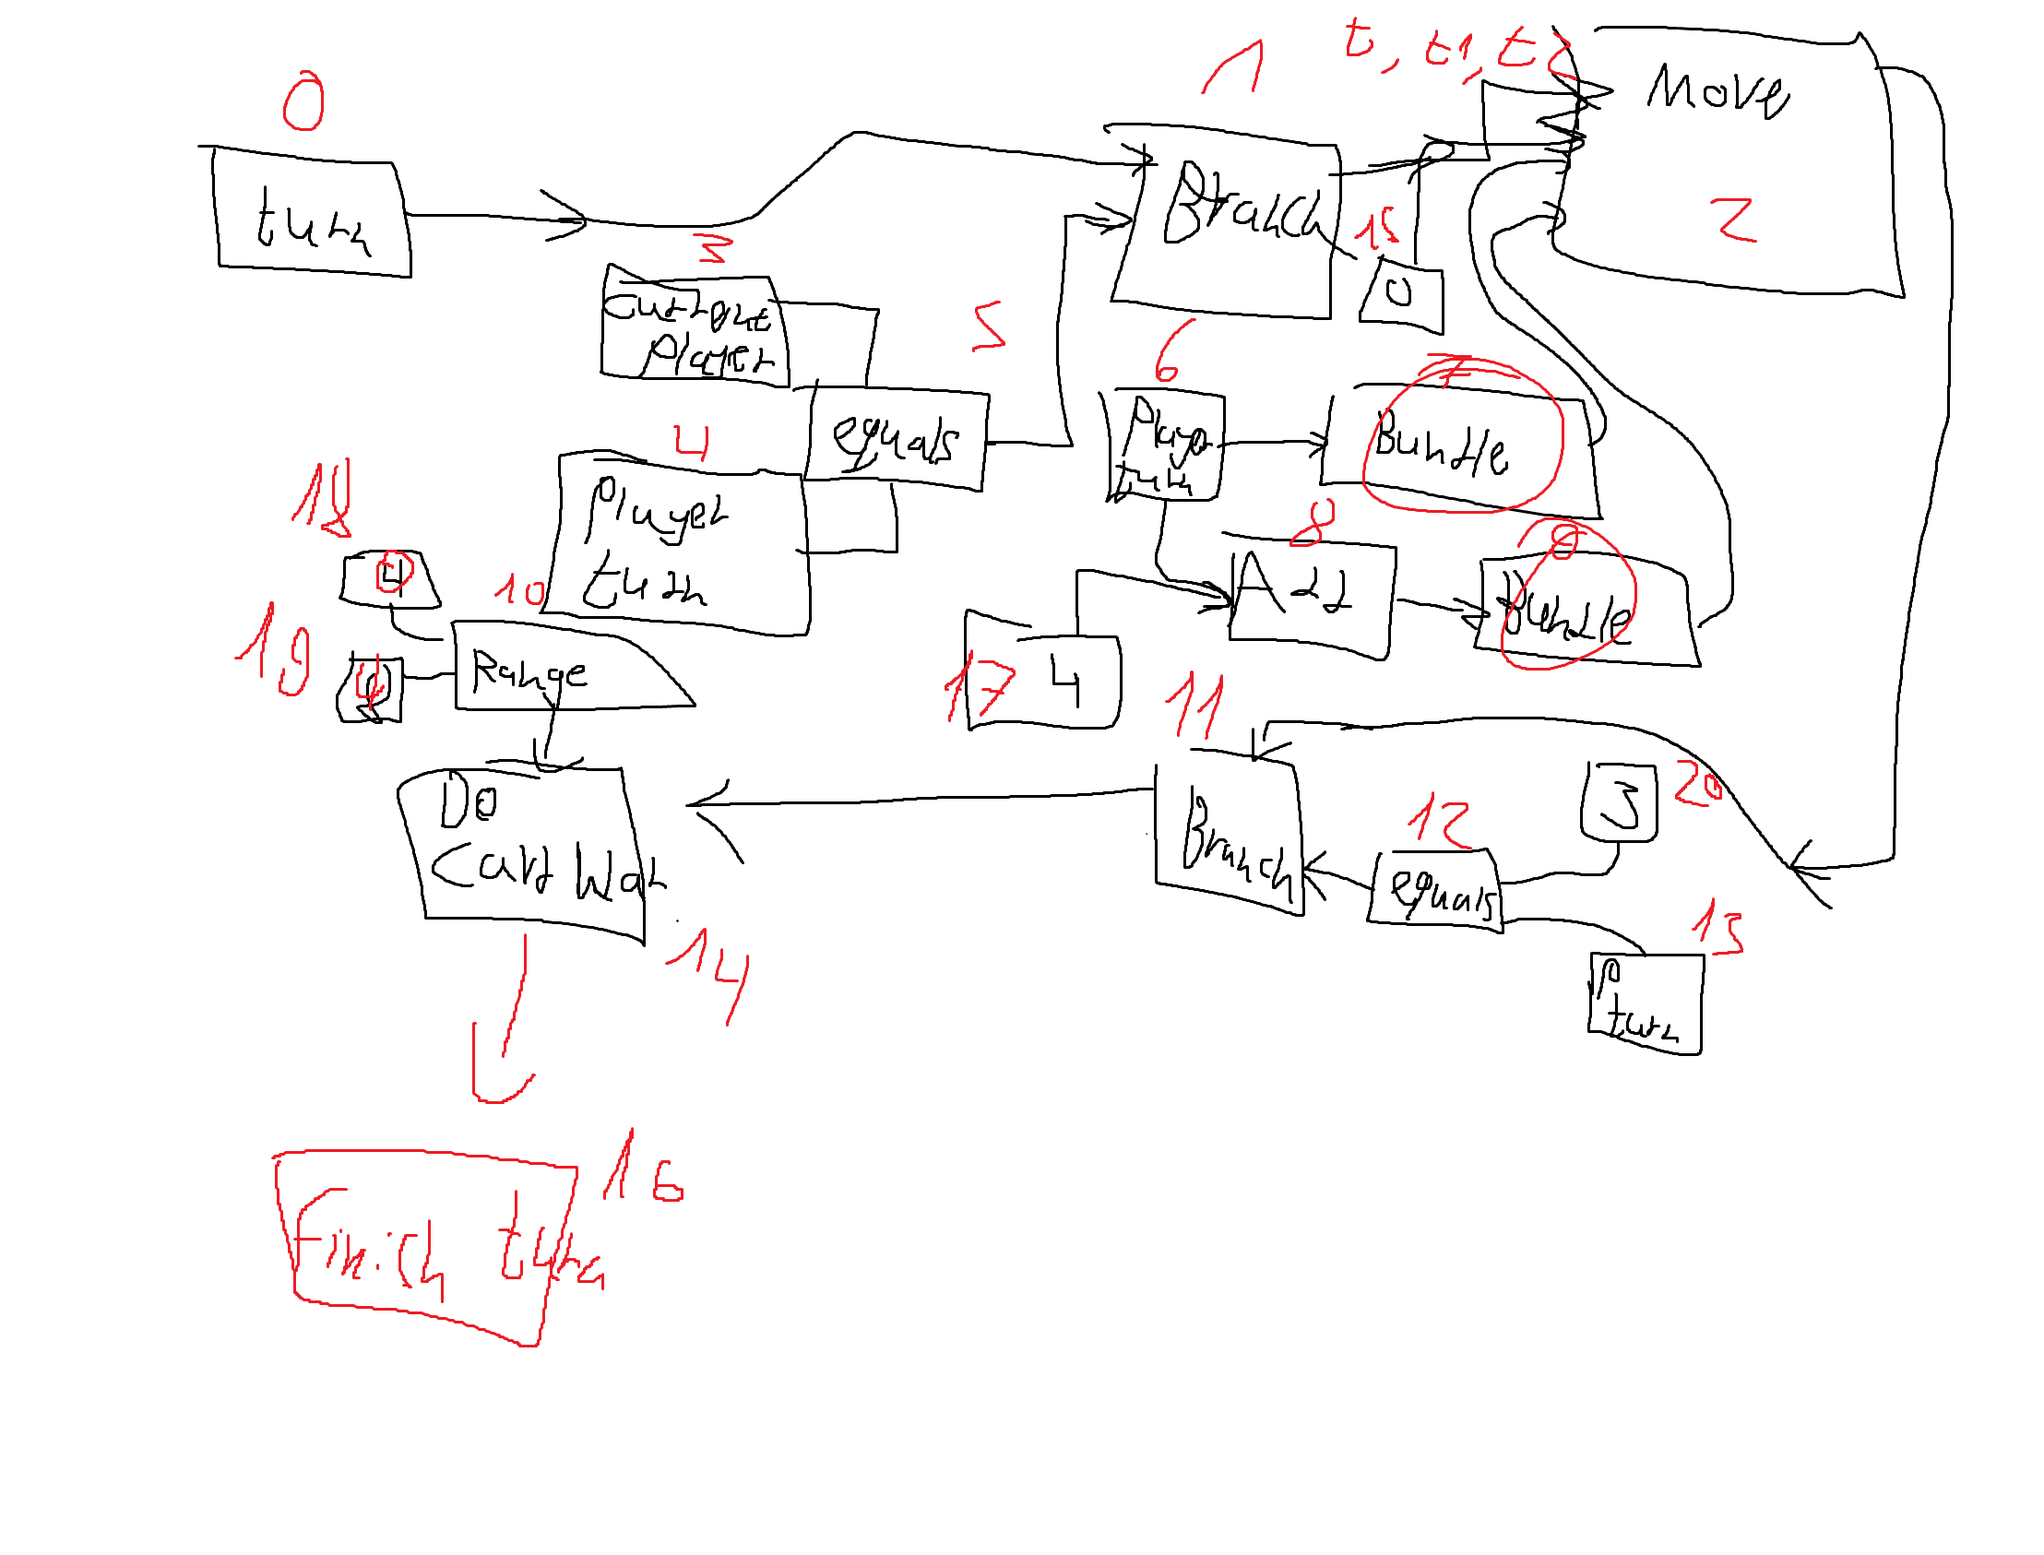
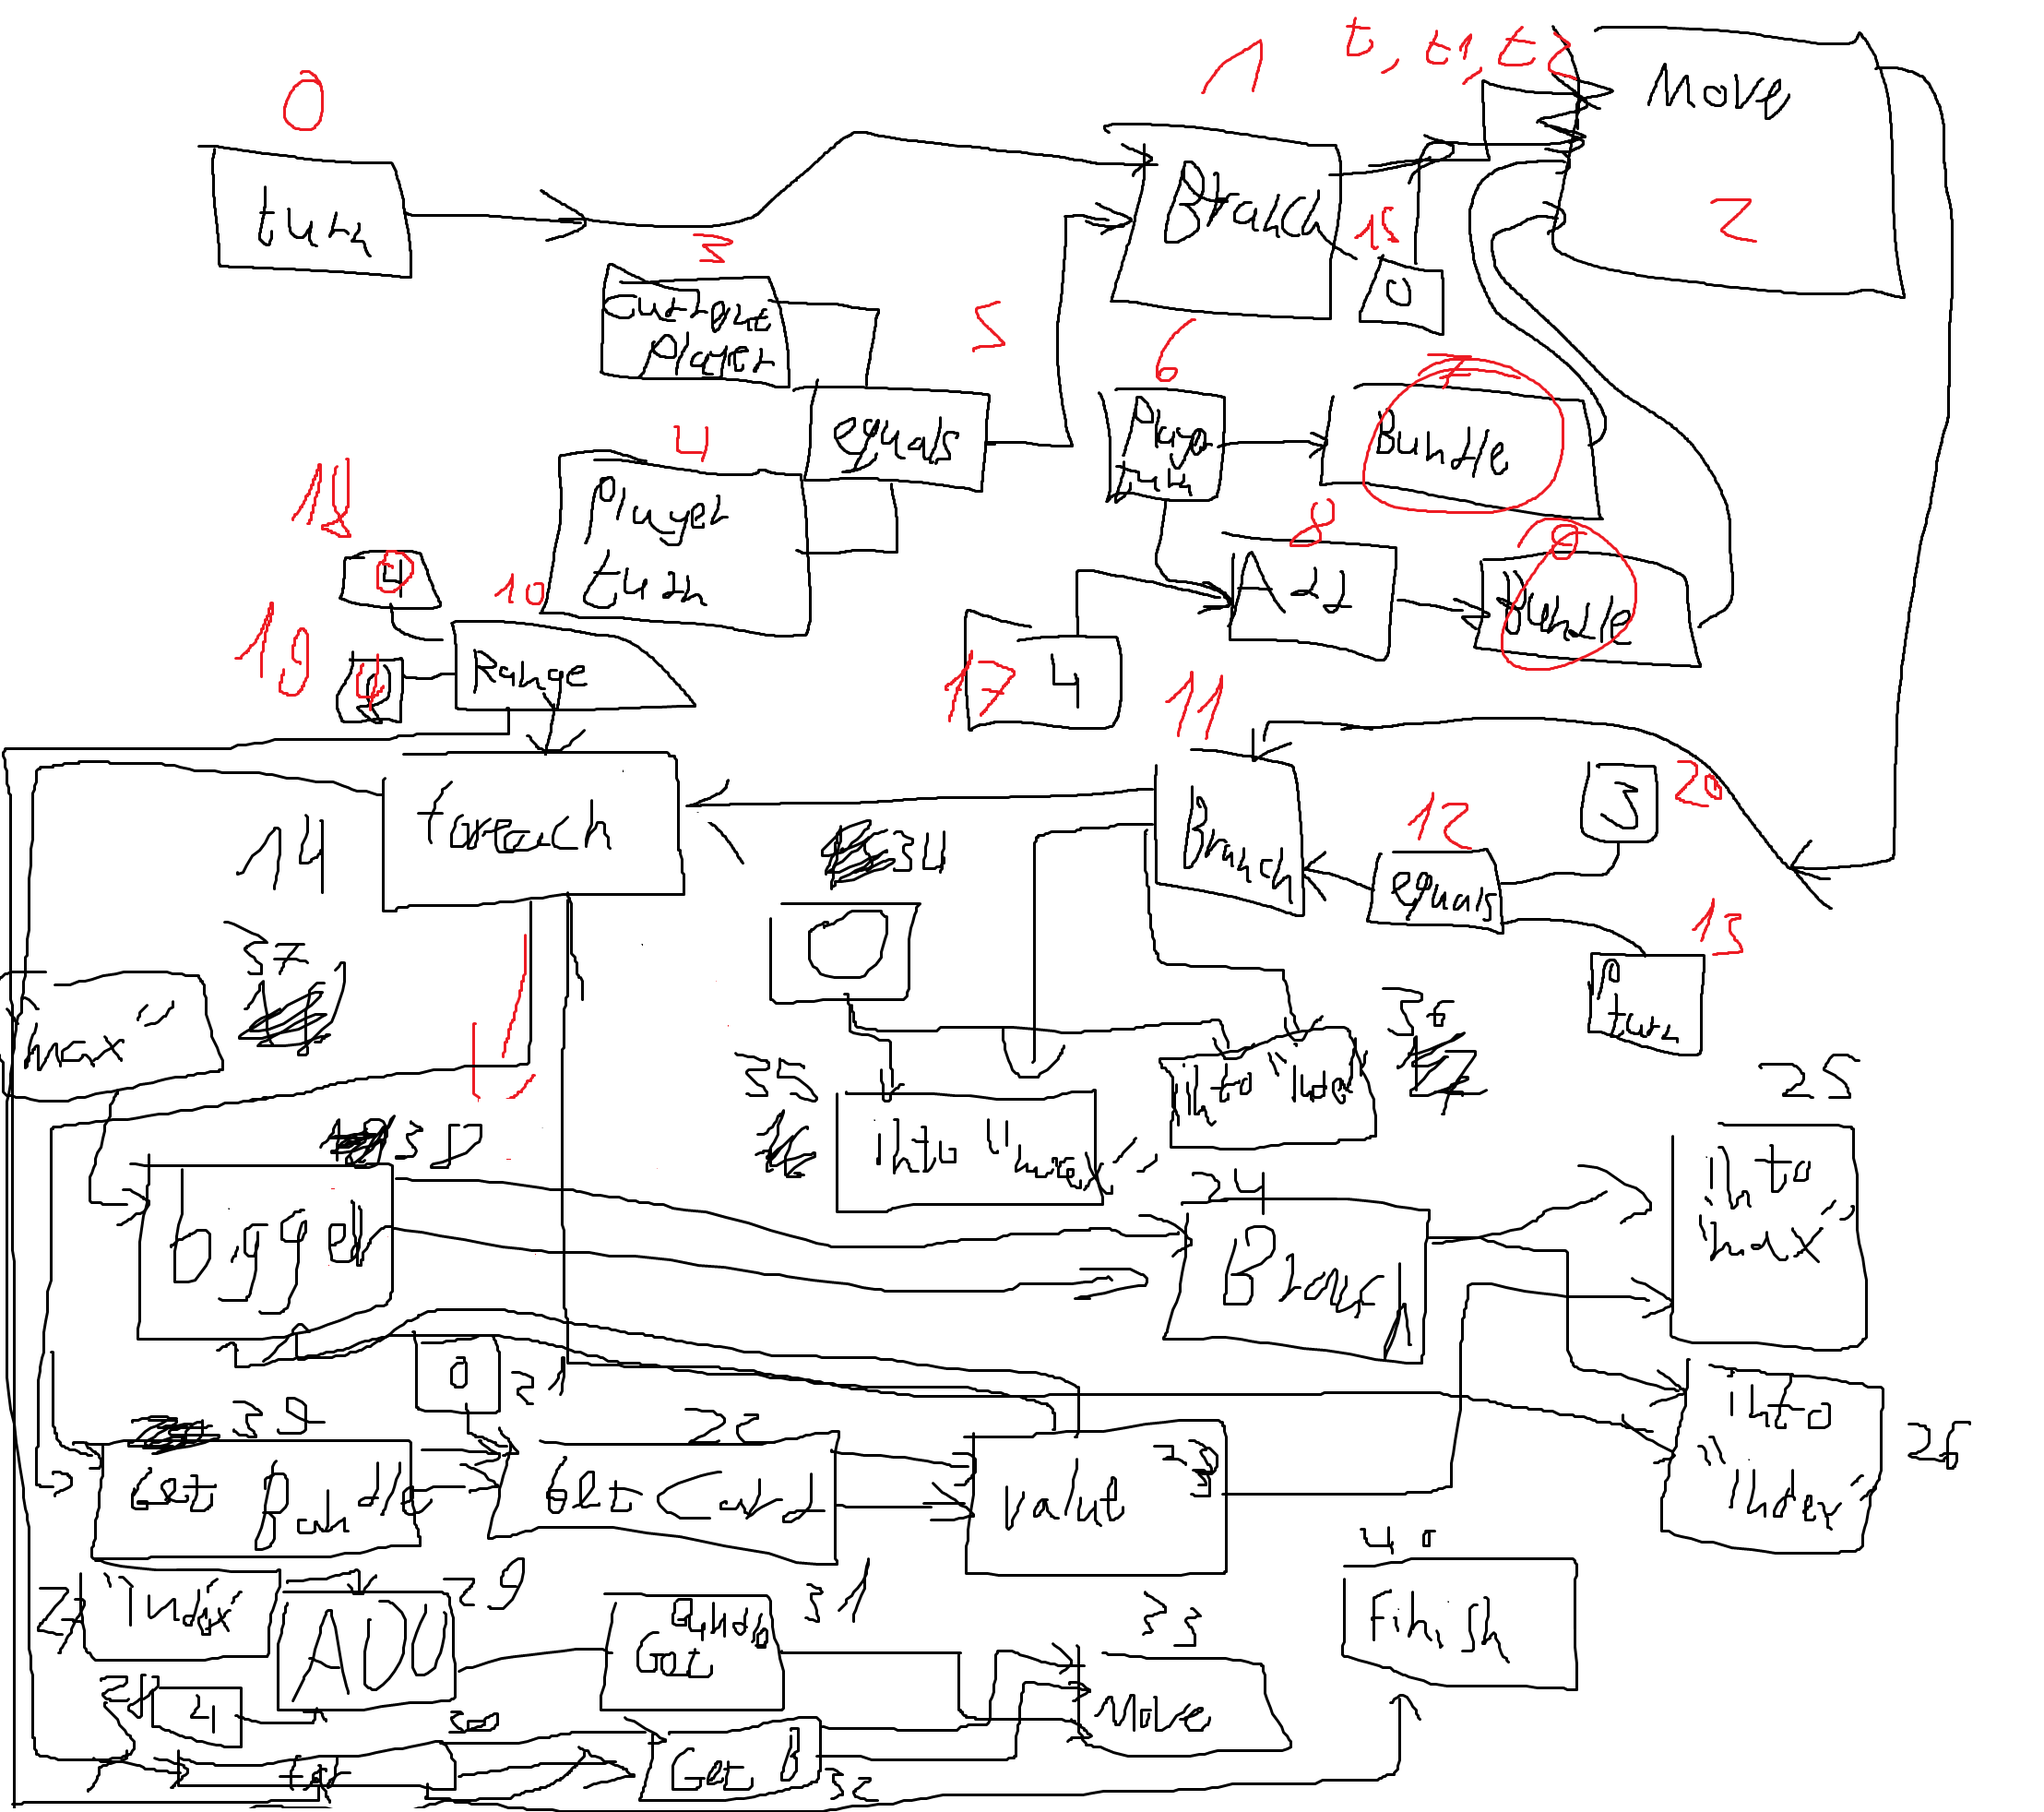
Add variables (unfinished) AND Change card game example
string for new example not done, image contains the rest of the instructions

diff --git a/Server/Game/CodeAnalyzer.py b/Server/Game/CodeAnalyzer.py
@@ -80,6 +80,8 @@ class CodeAnalyzer:
             7: (self.game.equals_command, 2),
             8: (self.game.get_bundle_command, 1),
             9: (self.game.range_command, 2),
+            10: (self.game.get_card_command, 2),
+            11: (self.game.get_value_commande, 1),
         }
 
         # C type
@@ -141,6 +143,8 @@ class Node:
         self.__type_index = None
         self.__repeatable = None
         self.__repeating = False
+        self.__awaiting_values = {}
+        self.__func_triggers = None
 
     @property
     def id(self) -> int:
@@ -297,41 +301,58 @@ class Node:
             self.activate_base_input()
             self.__active = True
             print("GOT OUT")
-        if not all(
-                any(
-                    input_node[0].has_value(self, int(input_node[1])) for input_node in input_slot
-                ) for input_slot in self.__inputs
-        ):
-            print("NO INPUTS: ")
-            if self.__type == "C": all(
-                all(
-                    print(input_node[0].has_value(self, int(input_node[1]))) for input_node in input_slot
-                ) for input_slot in self.__inputs
-            )
-            return
 
-        args_for_func = self.__get_values()
-        if results := self.func[0](*args_for_func):
-            if type(results) is not tuple: results = results, []
-            if len(results) == 2 and type(results[0]) is dict:
-                for i in range(len(self.__outputs)):
-                    if res := results[0].get(i, False):
-                        for output in self.__outputs[i].keys():
-                            if self.static:
-                                if type(res) is list:
-                                    self.__outputs[i][output] = res
-                                else:
+        if  any(self.__awaiting_values.get(key) for key in self.__awaiting_values.keys()):
+            print("SENDING ADDITIONAL INFO")
+            for i in range(len(self.__outputs)):
+                if res := self.__awaiting_values.get(i, False):
+                    if type(res) is list:
+                        lst = res
+                        res = lst.pop(0)
+                        self.__awaiting_values[i] = lst
+                    for output in self.__outputs[i].keys():
+                        if self.static:
+                            self.__outputs[i][output] = [res]
+                        else:
+                            self.__outputs[i][output].append(res)
+            if self.__func_triggers and type(self.__func_triggers) is tuple:
+                for res in self.__func_triggers:
+                    if type(res) is int and res < len(self.__triggers):
+                        for trigger_node in self.__triggers[res]:
+                            if trigger: trigger_node()
+        else:
+            if not all(
+                    any(
+                        input_node[0].has_value(self, int(input_node[1])) for input_node in input_slot
+                    ) for input_slot in self.__inputs
+            ):
+                print("NO INPUTS: ")
+                if self.__type == "C":
+                    print([[input_node[0].has_value(self, int(input_node[1])) for input_node in input_slot]
+                          for input_slot in self.__inputs])
+                print('NO INPUTS END')
+                return
+            args_for_func = self.__get_values()
+            if results := self.func[0](*args_for_func):
+                if type(results) is not tuple: results = results, []
+                if len(results) == 2 and type(results[0]) is dict:
+                    for i in range(len(self.__outputs)):
+                        if res := results[0].get(i, False):
+                            if type(res) is list:
+                                lst = res
+                                res = lst.pop(0)
+                                self.__awaiting_values[i] = lst
+                            for output in self.__outputs[i].keys():
+                                if self.static:
                                     self.__outputs[i][output] = [res]
-                            else:
-                                if type(res) is list:
-                                    self.__outputs[i][output].extend(res)
                                 else:
                                     self.__outputs[i][output].append(res)
-                if results[1] and type(results[1]) is tuple:
-                    for res in results[1]:
-                        if type(res) is int and res < len(self.__triggers):
-                            for trigger_node in self.__triggers[res]:
-                                if trigger: trigger_node()
+                    if results[1] and type(results[1]) is tuple:
+                        self.__func_triggers = results[1]
+                        for res in results[1]:
+                            if type(res) is int and res < len(self.__triggers):
+                                for trigger_node in self.__triggers[res]:
+                                    if trigger: trigger_node()
         if len(self.__triggers) == 1:
             for trigger_node in self.__triggers[0]:
                 if trigger: trigger_node()
@@ -340,7 +361,7 @@ class Node:
                 for output in output_slot.keys():
                     if output.static:
                         output(trigger=trigger)
-        if not self.static and self.repeatable and self.type != "D" and not self.repeating:
+        if any(self.__awaiting_values.get(key) for key in self.__awaiting_values.keys()):
             print('CALLED SELF')
             self(remap=False)
 

diff --git a/Server/GameServer.py b/Server/GameServer.py
@@ -73,16 +73,20 @@ class GameServer(Server):
             "8: [B000*{(6.0)//(17.0)}*{(9)}*]///"
             "9: [B008*{(8.0)}*{(2)}*]///"
             "10: [B009*{(18.0)//(19.0)}*{(14)}*]///"
-            "11: [D001*{(12.0)}**{(14)//(16)}]///"
+            "11: [D001*{(12.0)}**{(14)}]///"
             "12: [B007*{(13.0)//(20.0)}*{(11)}*]///"
             "13: [A003**{(12)}*]///"
-            "14: [C004*{(10.0)}**{(16)}]///"
+            "14: [C000*{(10.0)}**{(16)}]///"
             "15: [N000**{(2)}*]///"
-            "16: [D000***]///"
             "17: [N004**{(8)}*]///"
             "18: [N000**{(10)}*]///"
             "19: [N004**{(10)}*]///"
             "20: [N003**{(12)}*]///"
+            "21: [N000**{(22)}*]///"
+            "22: [B010*{(39.0)//(21.0)}*{(23)}*{(23)}]///"
+            "23: [B011*{(22.0)}*{(38)}*{(38)}]///"
+            "24: [D001*{(38.0)}**{(25)//(26)}]///"
+            "25: [F%max%*{(23.0)}**{(25)//(26)}]///" # TODO FINISH THIS
             "129: [A000***]"
         )
         self.game.send_update = lambda b: self.broadcast(b.encode())

diff --git a/Server/Game/GameManager.py b/Server/Game/GameManager.py
@@ -52,6 +52,7 @@ class Game:
         return True
 
     def disconnect(self, sock: socket):
+        print('\n DISCONNECT \n')
         if sock not in self.players:
             return False
         self.players.remove(sock)
@@ -62,11 +63,11 @@ class Game:
 
     def get_players_command(self):
         print("A0")
-        return {0: [self.players]}
+        return {0: [self.players.copy()]}
 
     def get_bundles_command(self):
         print("A1")
-        return {0: [self.bundles]}
+        return {0: [self.bundles.copy()]}
 
     def get_active_player(self):
         print("A2")
@@ -83,6 +84,12 @@ class Game:
         print("B4")
         print(player, self.players)
         return {0: [self.bundles[self.players.index(player)]]}
+
+    def get_card_command(self, bundle, index):
+        return {0: [bundle.cards[index]]}
+
+    def get_value_commande(self, card):
+        return card.value
 
     @staticmethod
     def count_command(lst: list):
